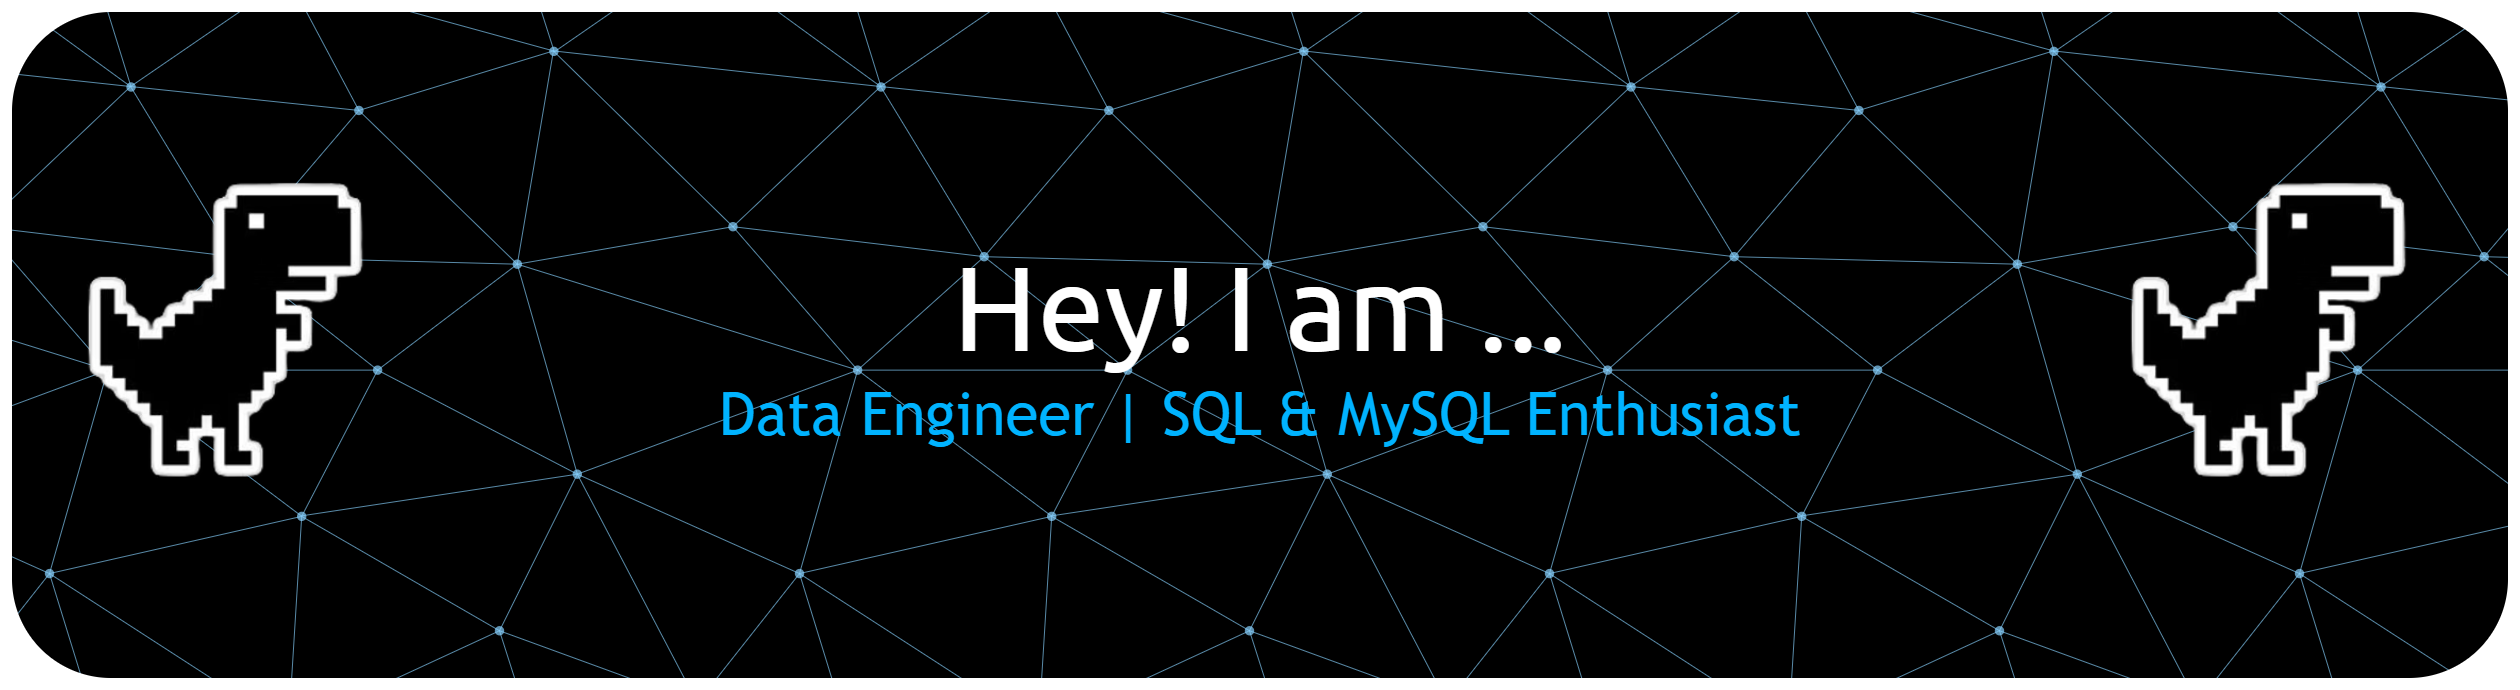
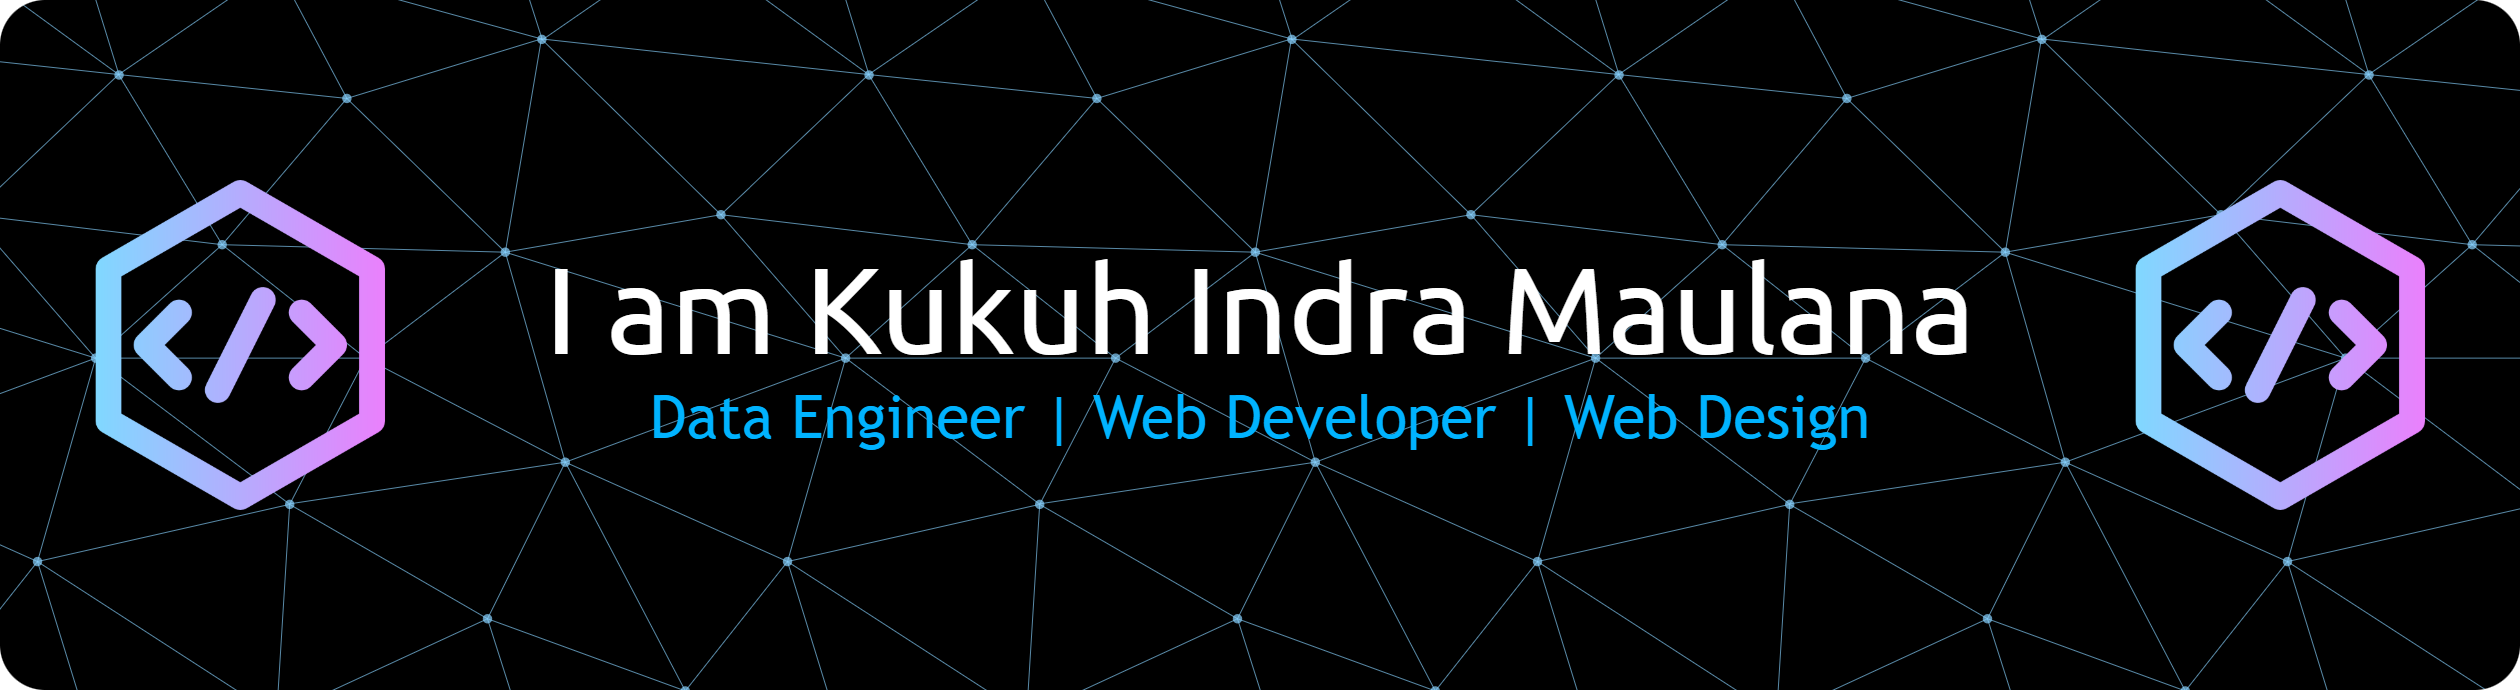
add snake & pacman

diff --git a/README.md b/README.md
@@ -1,4 +1,4 @@
-## Hello World! I'm Kukuh Indra Maulana 👋
+# Hey there!  👋
 
 <!--
 **Indra-jy/indra-jy** is a ✨ _special_ ✨ repository because its `README.md` (this file) appears on your GitHub profile.
@@ -17,6 +17,45 @@ Here are some ideas to get you started:
 
 ![baner](img/github-header-banner.png)
 
--🌱 I’m currently learning Mysql
+-I am a technologist who combines three areas of expertise: as a Web Developer who builds functional applications, a Data Engineer who processes and manages data efficiently, and a Web Designer who focuses on aesthetics and user experience. With this multidisciplinary approach, I am able to create digital products that are not only technically robust, but also visually appealing and smart in their data management.
 
-![Uchiha Indra](https://media2.giphy.com/media/v1.Y2lkPTc5MGI3NjExZGJvdnZjcHR1dHZqazRjNDF2ajdyM2U0cDhwZmNzYW1vaWI3bXM3dSZlcD12MV9pbnRlcm5hbF9naWZfYnlfaWQmY3Q9Zw/8SEnoMhrEeBDa/giphy.gif)
+**_“Being a developer is about building. Being a data engineer is about understanding. Being a designer is about feeling. Being me is about bringing it all together._”**
+
+#### Skills
+<img src="https://img.shields.io/badge/HTML5-E34F26?style=for-the-badge&logo=html5&logoColor=white" />
+<img src="https://img.shields.io/badge/CSS3-1572B6?style=for-the-badge&logo=css3&logoColor=white" />
+<img src="https://img.shields.io/badge/PHP-777BB4?style=for-the-badge&logo=php&logoColor=white" />
+<img src="https://img.shields.io/badge/MySQL-005C84?style=for-the-badge&logo=mysql&logoColor=white" />
+<img src="https://img.shields.io/badge/Laragon-0E83CD?style=for-the-badge&logo=Laragon&logoColor=white" />
+<img src="https://img.shields.io/badge/Xampp-F37623?style=for-the-badge&logo=xampp&logoColor=white" />
+<img src="https://img.shields.io/badge/Codeigniter-EF4223?style=for-the-badge&logo=codeigniter&logoColor=white" />
+<img src="https://img.shields.io/badge/Laravel-FF2D20?style=for-the-badge&logo=laravel&logoColor=white" />
+<img src="https://img.shields.io/badge/Figma-F24E1E?style=for-the-badge&logo=figma&logoColor=white" />
+<img src="https://img.shields.io/badge/Canva-%2300C4CC.svg?&style=for-the-badge&logo=Canva&logoColor=white" />
+
+<!-- <img src="{BadgeURLHere}" />
+<img src="{BadgeURLHere}" />
+<img src="{BadgeURLHere}" /> -->
+
+#### Connect with me
+![www.linkedin.com/in/kukuh-indra-maulanaa-72b14a3a1](https://img.shields.io/badge/LinkedIn-0077B5?style=for-the-badge&logo=linkedin&logoColor=white) ![https://mail.google.com/mail/?view=cm&fs=1&to=kukuhindramaulanaa@gmail.com&su=Halo%20Kukuh&body=Saya%20tertarik%20dengan%20portofolio%20Anda](https://img.shields.io/badge/Gmail-D14836?style=for-the-badge&logo=gmail&logoColor=white) ![t.me/kukuhindramaulana](https://img.shields.io/badge/Telegram-2CA5E0?style=for-the-badge&logo=telegram&logoColor=white) ![https://wa.me/6289630436563](https://img.shields.io/badge/WhatsApp-25D366?style=for-the-badge&logo=WhatsApp&logoColor=white) ![https://www.instagram.com/indraa_eleven?igsh=dnV5d3BzaHk5MWdt](https://img.shields.io/badge/Instagram-E4405F?style=for-the-badge&logo=instagram&logoColor=white) ![https://www.tiktok.com/@itsmanabu_?is_from_webapp=1&sender_device=pc](https://img.shields.io/badge/TikTok-000000?style=for-the-badge&logo=tiktok&logoColor=white)
+
+
+<!--  #### My Github Stats -->
+
+<!-- ![Indra-jy's GitHub stats](https://github-readme-stats.vercel.app/api?username=Indra-jy&show_icons=true&theme=transparent)
+
+![indra-jy's GitHub stats](https://github-readme-stats.vercel.app/api?username=indra-jy&show_icons=true&bg_color=00000000)
+ -->
+ 
+<img src="https://raw.githubusercontent.com/indra-jy/indra-jy/output/snake.svg" alt="Snake animation" />
+
+###
+
+<picture>
+  <source media="(prefers-color-scheme: dark)" srcset="https://raw.githubusercontent.com/indra-jy/indra-jy/output/pacman-contribution-graph-dark.svg">
+  <source media="(prefers-color-scheme: light)" srcset="https://raw.githubusercontent.com/indra-jy/indra-jy/output/pacman-contribution-graph.svg">
+  <img alt="pacman contribution graph" src="https://raw.githubusercontent.com/indra-jy/indra-jy/output/pacman-contribution-graph.svg">
+</picture>
+
+###
